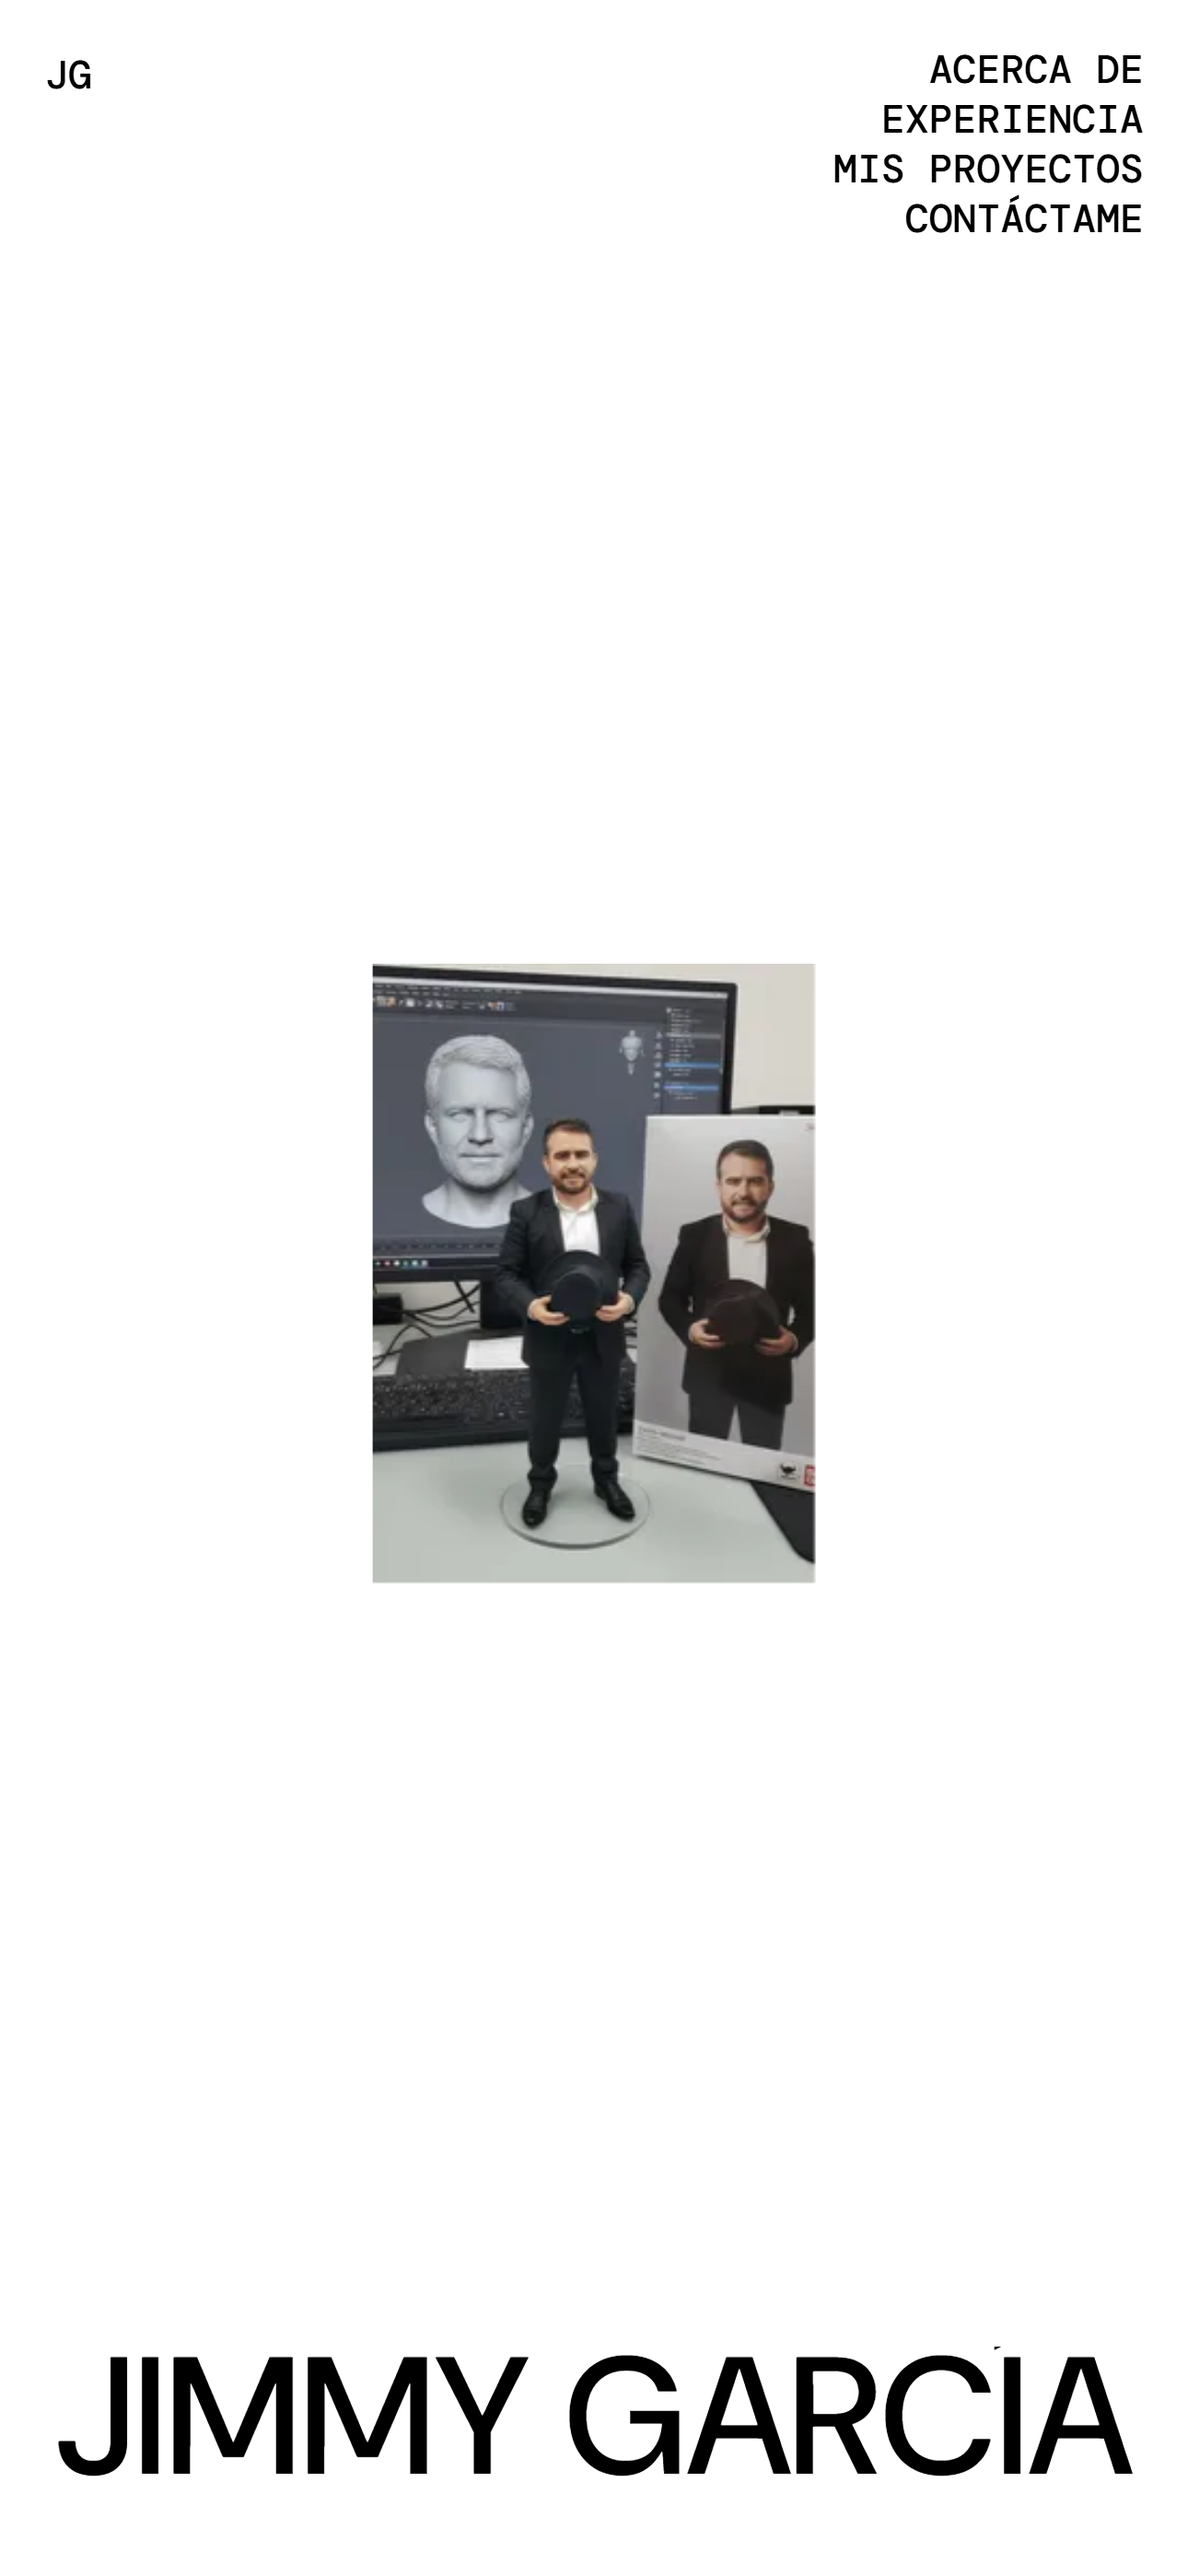
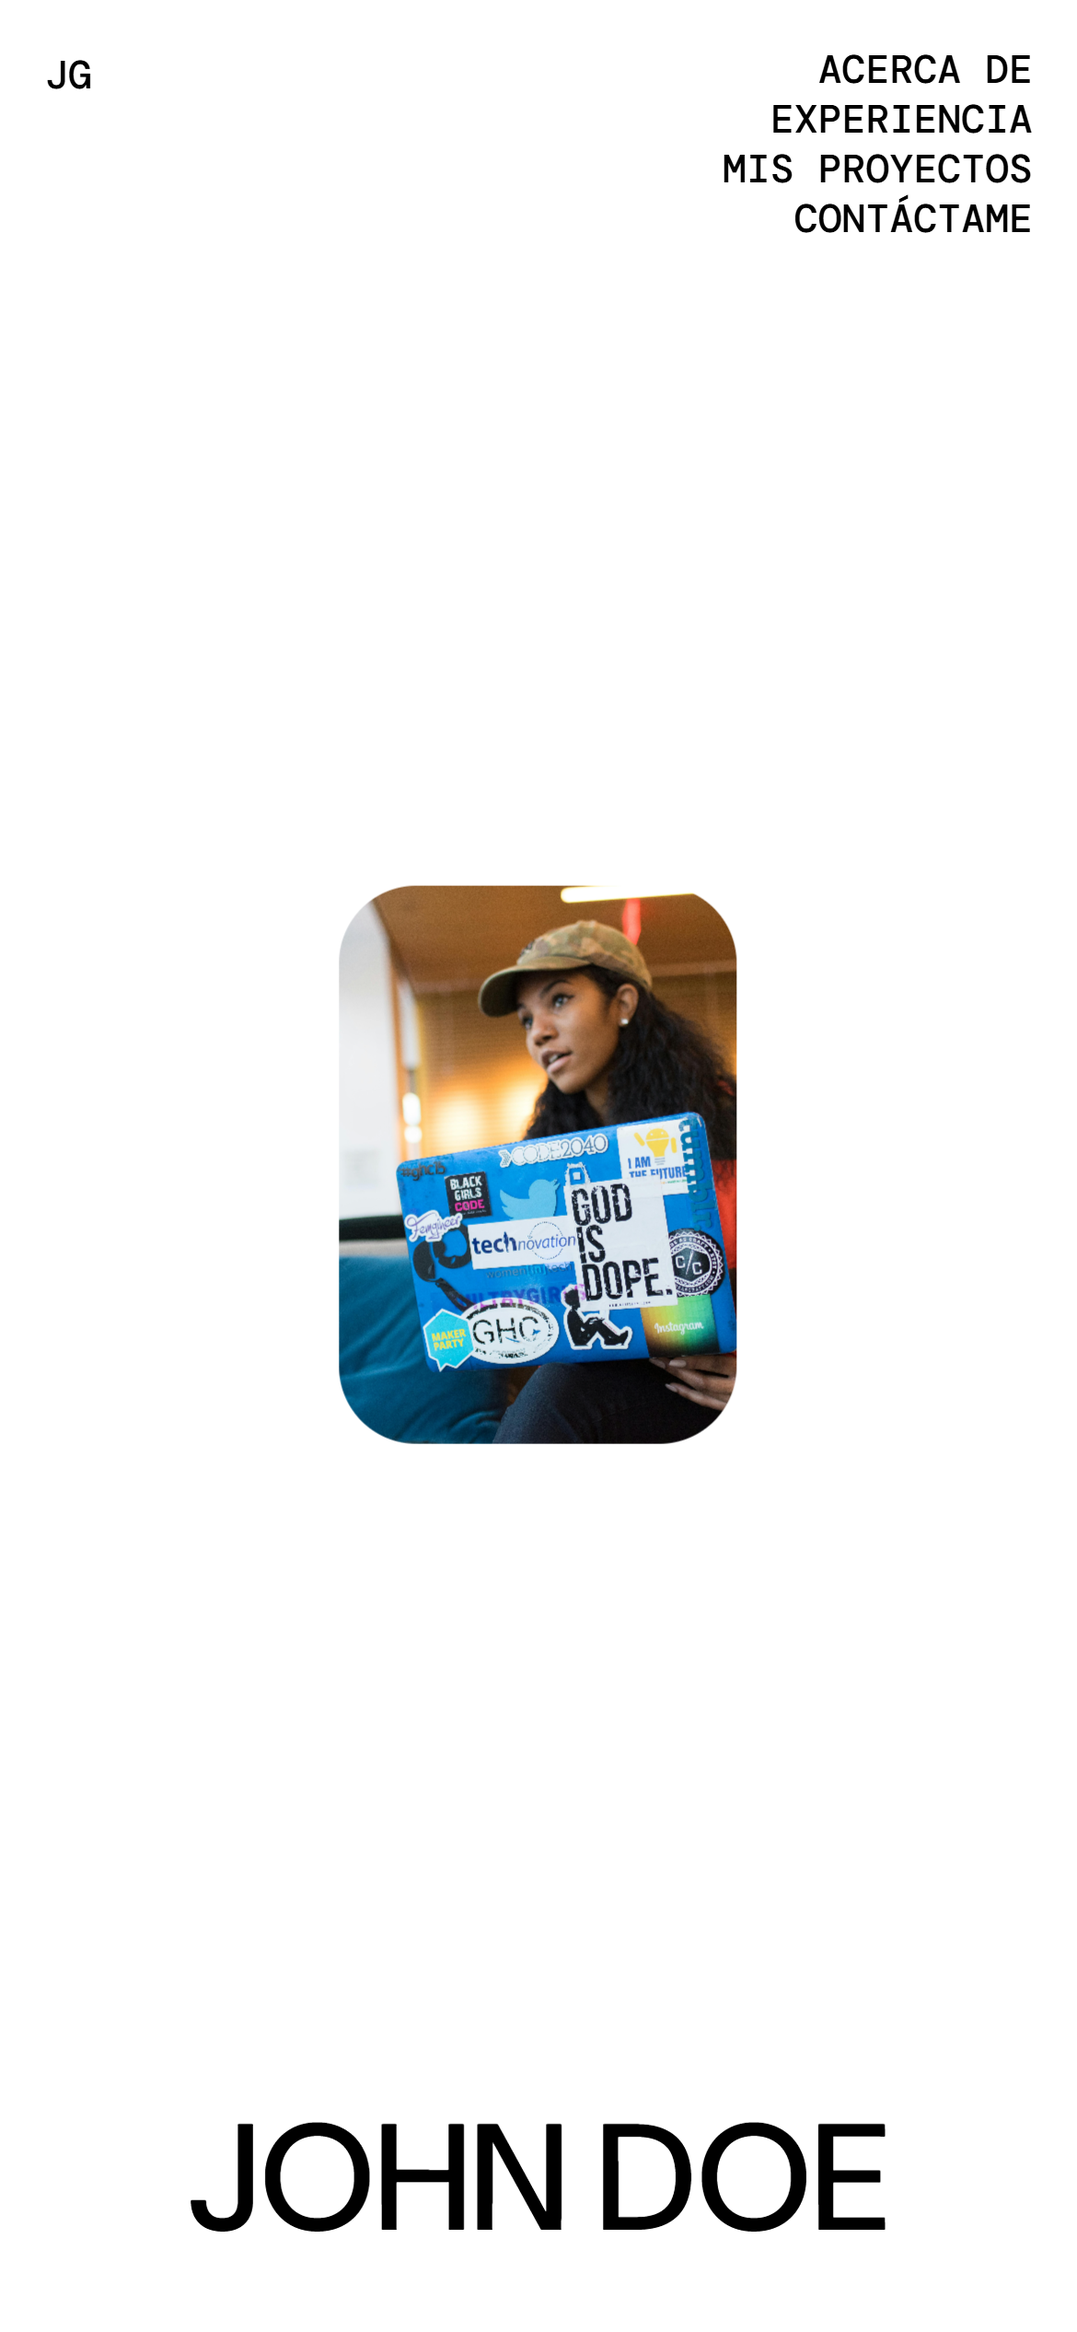
01282026

diff --git a/index.html b/index.html
@@ -40,34 +40,26 @@
 
     <div class="hero-images">
       <div class="img">
-        <img
-          src="https://res.cloudinary.com/menikmati/image/upload/s--WCLjrq8q--/v1757377082/Proyectos/Personal/Practica%20CSS/011_u9l0c6.webp"
-          alt="">
+        <img src="https://images.pexels.com/photos/360591/pexels-photo-360591.jpeg" alt="">
       </div>
       <div class="img">
-        <img
-          src="https://res.cloudinary.com/menikmati/image/upload/s--tOCzXAgu--/v1757377083/Proyectos/Personal/Practica%20CSS/014_zyn612.webp"
-          alt="Experto en Diseño Web y Móvil">
+        <img src="https://images.pexels.com/photos/7369/startup-photos.jpg" alt="Experto en Diseño Web y Móvil">
       </div>
       <div class="img hero-img">
-        <img src="https://jimmygarcia.dev/_astro/profile-pic.duHLx5Z8_ZraYiT.webp" alt="">
+        <img src="https://images.pexels.com/photos/1181267/pexels-photo-1181267.jpeg" alt="">
       </div>
       <div class="img">
-        <img
-          src="https://res.cloudinary.com/menikmati/image/upload/s--F7vk5nZQ--/v1757377070/Proyectos/Personal/Practica%20CSS/002_kluqck.webp"
-          alt="">
+        <img src="https://images.pexels.com/photos/3861959/pexels-photo-3861959.jpeg" alt="">
       </div>
 
       <div class="img">
-        <img
-          src="https://res.cloudinary.com/menikmati/image/upload/s--l-Y1Gm4f--/t_Thumbnail/v1/Proyectos/App%20de%20Eventos/Captura_de_pantalla_2023-09-15_204622_dwvftn.webp"
-          alt="">
+        <img src="https://images.pexels.com/photos/9976569/pexels-photo-9976569.jpeg" alt="">
       </div>
 
     </div>
 
     <div class="hero-header">
-      <h1>Jimmy García</h1>
+      <h1>John Doe</h1>
     </div>
   </section>
   <script src="script.js"></script>

diff --git a/style.css b/style.css
@@ -106,7 +106,7 @@ nav {
   display: flex;
   justify-content: center;
   gap: 10vw;
-  will-change: gap;  
+  will-change: gap;    
 }
 
 .hero-images .img {
@@ -115,7 +115,14 @@ nav {
   transform: translateY(50%) scale(0.5);
   clip-path: polygon(0% 0%, 100% 0%, 100% 100%, 0% 100%);
   opacity: 0;
-  will-change: opacity, transform, clip-path;
+  will-change: opacity, transform, clip-path; 
+  border-radius: 14px;
+  overflow: hidden;  
+}
+
+.hero-img img {
+  border-radius: 10px;
+  overflow: hidden;
 }
 
 .hero-header {
@@ -156,6 +163,6 @@ nav {
   }
 
   .hero-images .img {
-    width: 20vw;
+    width: 20vw;    
   }
 }
